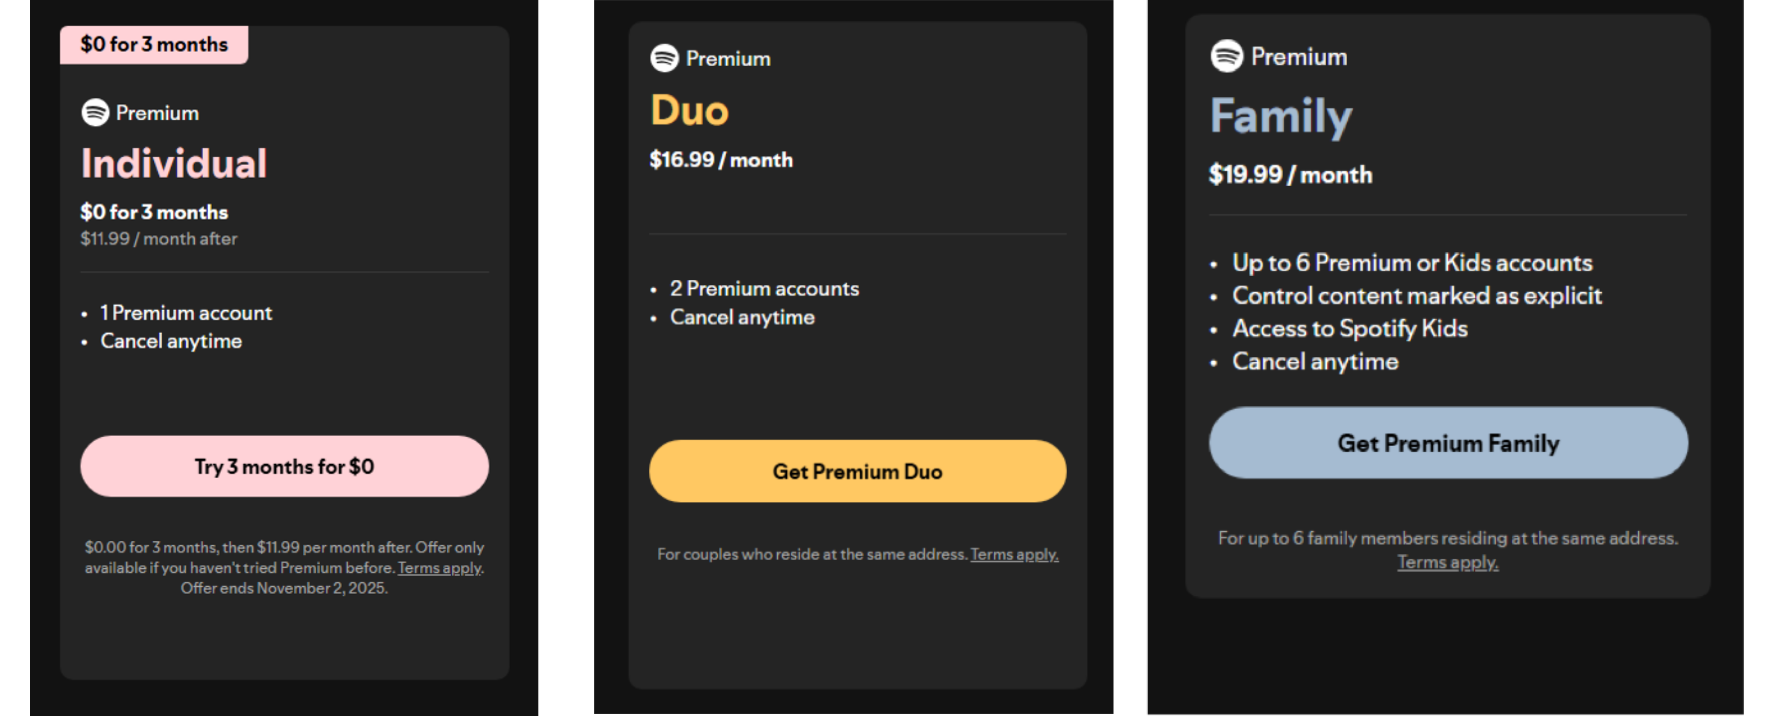
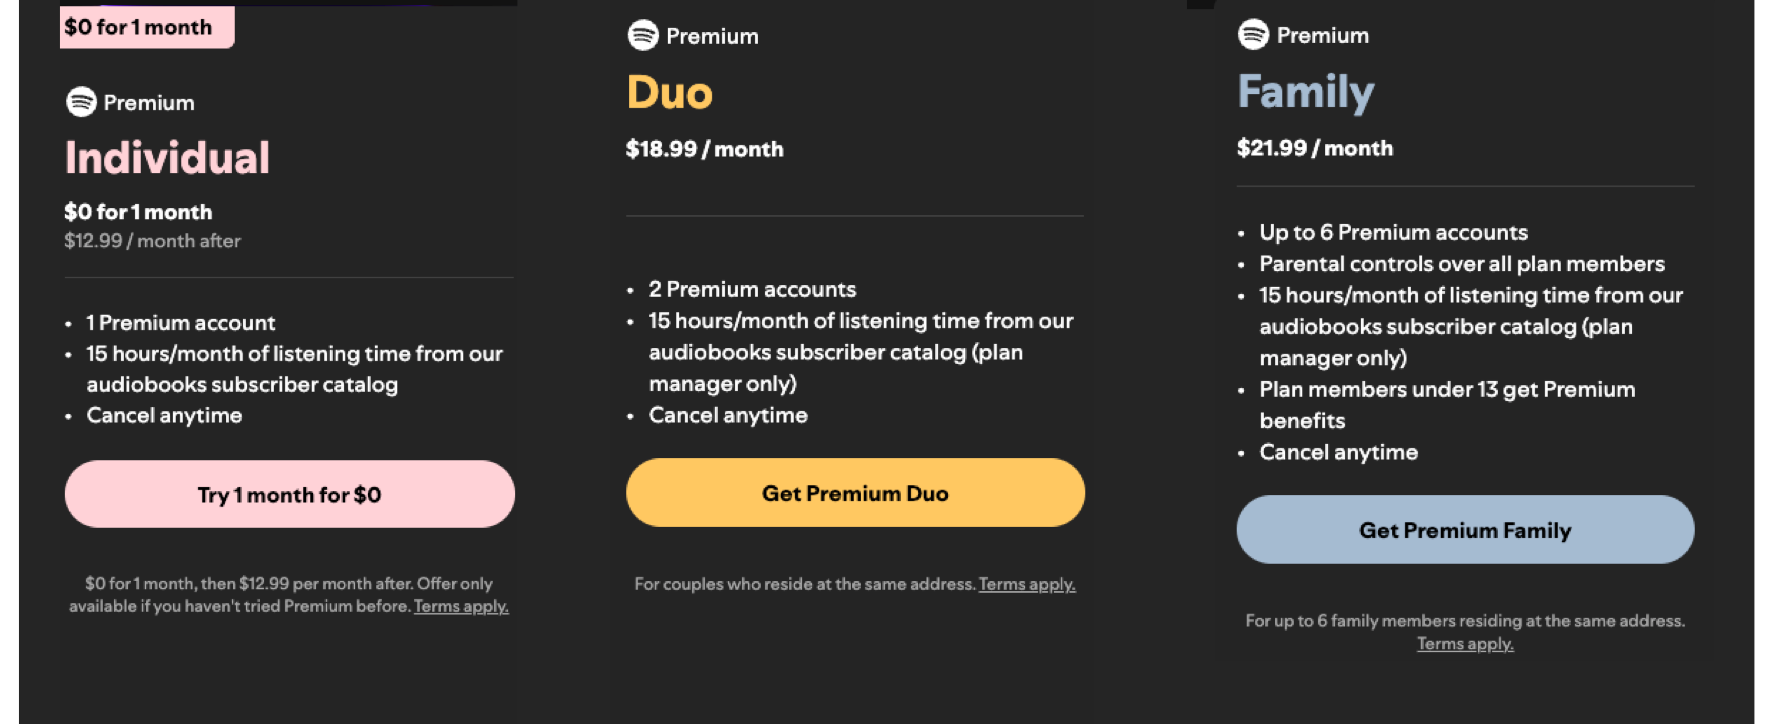
ch12: refresh both Spotify screenshots to the post-Jan-2026 ladder
spotify_pd_versioning.png now shows Individual $12.99 / Duo $18.99 / Family $21.99;
student_edu_id.png shows Individual $12.99 vs Student $6.99. Both propagated from the
authoring copy to this clone (all three copies now byte-identical).

- Prices restored to both images' alt text, which had been genericized while the
  screenshots were stale.
- Deleted the caveat on #/pd2-versioning saying the screenshot predated the Feb 2026
  reset -- it no longer does, so the note would have been actively misleading.

Image and caption now agree on every Spotify slide. Verified: 128/128 sections, all 118
slides within 720px, no broken images.

Changed region(s): [[0.0, 0.0, 0.9865, 1.0], [0.6783, 0.0304, 0.8016, 0.2735]]

diff --git a/econ2316/ch12-pricing-with-market-power/index.html b/econ2316/ch12-pricing-with-market-power/index.html
@@ -826,9 +826,9 @@
  <h2><i class="fa-solid fa-sliders" style="color: var(--accent-color);"></i> Versioning &mdash; Buyers Self-Select</h2>
  <div class="key-result" style="margin-top:0;"><p>Offer a <strong>menu of versions</strong> and let each buyer <strong>voluntarily pick the one best for them</strong> &mdash; revealing their type. The firm prices by the <strong>version chosen</strong>, not by who you are. To make buyers split, firms widen the gap between tiers &mdash; sometimes <strong>intentionally limiting</strong> the cheaper one (the &ldquo;damaged-goods&rdquo; idea: stripped Basic Economy, a deliberately crippled chip).</p></div>
  <div style="text-align:center; margin-top:10px;">
-  <img alt="Spotify Premium tiers — Individual, Duo and Family — versioning by household size" src="figures/spotify_pd_versioning.png" style="max-width:100%; max-height:300px; object-fit:contain;">
+  <img alt="Spotify Premium tiers — Individual $12.99, Duo $18.99, Family $21.99 — versioning by household size" src="figures/spotify_pd_versioning.png" style="max-width:100%; max-height:300px; object-fit:contain;">
  </div>
- <div style="background:#fdf6c4; border-left:4px solid var(--success-color); border-radius:8px; padding:9px 18px; margin-top:10px;"><p style="font-size:12.5pt; margin:0;"><strong>Spotify is textbook versioning:</strong> <strong>Individual</strong> ($12.99), <strong>Duo</strong> ($18.99 / 2 accounts), <strong>Family</strong> ($21.99 / up to 6 accounts). Households <strong>self-select by size</strong>, and the cheaper tiers are deliberately capped (one account, same-address rules) so higher-value households pay more. <span style="color:var(--muted-color);">The screenshot predates the Feb 2026 reset &mdash; the ladder moved, its shape did not.</span></p></div>
+ <div style="background:#fdf6c4; border-left:4px solid var(--success-color); border-radius:8px; padding:9px 18px; margin-top:10px;"><p style="font-size:12.5pt; margin:0;"><strong>Spotify is textbook versioning:</strong> <strong>Individual</strong> ($12.99), <strong>Duo</strong> ($18.99 / 2 accounts), <strong>Family</strong> ($21.99 / up to 6 accounts). Households <strong>self-select by size</strong>, and the cheaper tiers are deliberately capped (one account, same-address rules) so higher-value households pay more.</p></div>
  <aside class="notes">This is the mechanism behind all second-degree PD: incentive-compatible menus. The counter-intuitive result &mdash; firms sometimes spend money to make a product WORSE (damaged goods: disabled chip features, stripped Basic Economy) &mdash; because too small a quality gap lets high-WTP buyers buy the cheap version. Degrading the low version protects the high-margin sale. Spotify's Individual/Duo/Family menu is the same logic &mdash; versioning by household size, with the cheaper tiers capped.</aside>
 </section>
 
@@ -1070,7 +1070,7 @@
  <div style="background:#fdf6c4; border-radius:10px; padding:11px 22px; margin:2px 0 12px;">
   <p style="font-size:13.5pt; margin:0; color:#1a1a1a;"><strong>Definition.</strong> Pricing is differentiated for different consumer <strong>groups</strong> based on an <strong>observable characteristic</strong> (a proxy for <strong>their elasticity</strong>) &mdash; e.g. the <strong style="color:var(--danger-color);">Student Discount</strong>.</p>
  </div>
- <div style="text-align:center;"><img alt="Spotify Premium Individual versus the Student tier, verified with a .edu / student ID" src="figures/student_edu_id.png" style="max-width:100%; max-height:476px; object-fit:contain;"></div>
+ <div style="text-align:center;"><img alt="Spotify Premium Individual $12.99 vs Student $6.99, verified with a .edu / student ID" src="figures/student_edu_id.png" style="max-width:100%; max-height:476px; object-fit:contain;"></div>
  <aside class="notes">The cleanest third-degree case: Spotify can't read your WTP, but it CAN verify a .edu enrollment. Students are more price-elastic (tight budgets, easily lured by free rivals), so the $6.99 student price captures a segment that $12.99 would lose &mdash; while full-price individuals keep paying $12.99. The .edu check is the resale barrier. (Prices are the current post-Jan-2026 ladder; W12.4 later works the 2025 pair, \$5.99 vs \$11.99, because that is where the elasticity match was estimated.)</aside>
 </section>
 

diff --git a/econ2316/ch12-pricing-with-market-power/presentation.html b/econ2316/ch12-pricing-with-market-power/presentation.html
@@ -826,9 +826,9 @@
  <h2><i class="fa-solid fa-sliders" style="color: var(--accent-color);"></i> Versioning &mdash; Buyers Self-Select</h2>
  <div class="key-result" style="margin-top:0;"><p>Offer a <strong>menu of versions</strong> and let each buyer <strong>voluntarily pick the one best for them</strong> &mdash; revealing their type. The firm prices by the <strong>version chosen</strong>, not by who you are. To make buyers split, firms widen the gap between tiers &mdash; sometimes <strong>intentionally limiting</strong> the cheaper one (the &ldquo;damaged-goods&rdquo; idea: stripped Basic Economy, a deliberately crippled chip).</p></div>
  <div style="text-align:center; margin-top:10px;">
-  <img alt="Spotify Premium tiers — Individual, Duo and Family — versioning by household size" src="figures/spotify_pd_versioning.png" style="max-width:100%; max-height:300px; object-fit:contain;">
+  <img alt="Spotify Premium tiers — Individual $12.99, Duo $18.99, Family $21.99 — versioning by household size" src="figures/spotify_pd_versioning.png" style="max-width:100%; max-height:300px; object-fit:contain;">
  </div>
- <div style="background:#fdf6c4; border-left:4px solid var(--success-color); border-radius:8px; padding:9px 18px; margin-top:10px;"><p style="font-size:12.5pt; margin:0;"><strong>Spotify is textbook versioning:</strong> <strong>Individual</strong> ($12.99), <strong>Duo</strong> ($18.99 / 2 accounts), <strong>Family</strong> ($21.99 / up to 6 accounts). Households <strong>self-select by size</strong>, and the cheaper tiers are deliberately capped (one account, same-address rules) so higher-value households pay more. <span style="color:var(--muted-color);">The screenshot predates the Feb 2026 reset &mdash; the ladder moved, its shape did not.</span></p></div>
+ <div style="background:#fdf6c4; border-left:4px solid var(--success-color); border-radius:8px; padding:9px 18px; margin-top:10px;"><p style="font-size:12.5pt; margin:0;"><strong>Spotify is textbook versioning:</strong> <strong>Individual</strong> ($12.99), <strong>Duo</strong> ($18.99 / 2 accounts), <strong>Family</strong> ($21.99 / up to 6 accounts). Households <strong>self-select by size</strong>, and the cheaper tiers are deliberately capped (one account, same-address rules) so higher-value households pay more.</p></div>
  <aside class="notes">This is the mechanism behind all second-degree PD: incentive-compatible menus. The counter-intuitive result &mdash; firms sometimes spend money to make a product WORSE (damaged goods: disabled chip features, stripped Basic Economy) &mdash; because too small a quality gap lets high-WTP buyers buy the cheap version. Degrading the low version protects the high-margin sale. Spotify's Individual/Duo/Family menu is the same logic &mdash; versioning by household size, with the cheaper tiers capped.</aside>
 </section>
 
@@ -1070,7 +1070,7 @@
  <div style="background:#fdf6c4; border-radius:10px; padding:11px 22px; margin:2px 0 12px;">
   <p style="font-size:13.5pt; margin:0; color:#1a1a1a;"><strong>Definition.</strong> Pricing is differentiated for different consumer <strong>groups</strong> based on an <strong>observable characteristic</strong> (a proxy for <strong>their elasticity</strong>) &mdash; e.g. the <strong style="color:var(--danger-color);">Student Discount</strong>.</p>
  </div>
- <div style="text-align:center;"><img alt="Spotify Premium Individual versus the Student tier, verified with a .edu / student ID" src="figures/student_edu_id.png" style="max-width:100%; max-height:476px; object-fit:contain;"></div>
+ <div style="text-align:center;"><img alt="Spotify Premium Individual $12.99 vs Student $6.99, verified with a .edu / student ID" src="figures/student_edu_id.png" style="max-width:100%; max-height:476px; object-fit:contain;"></div>
  <aside class="notes">The cleanest third-degree case: Spotify can't read your WTP, but it CAN verify a .edu enrollment. Students are more price-elastic (tight budgets, easily lured by free rivals), so the $6.99 student price captures a segment that $12.99 would lose &mdash; while full-price individuals keep paying $12.99. The .edu check is the resale barrier. (Prices are the current post-Jan-2026 ladder; W12.4 later works the 2025 pair, \$5.99 vs \$11.99, because that is where the elasticity match was estimated.)</aside>
 </section>
 
